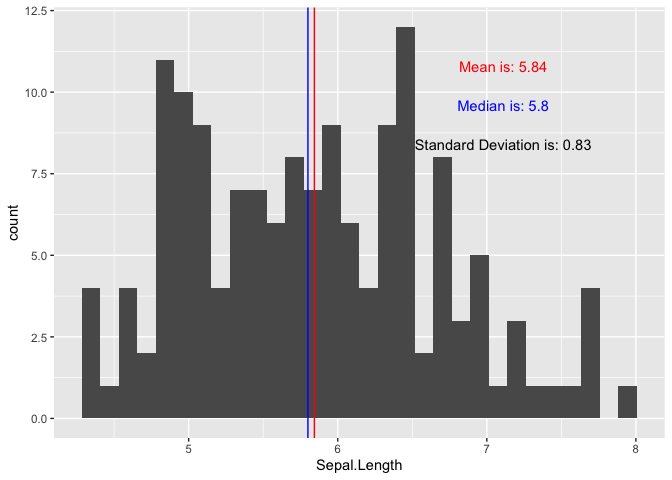
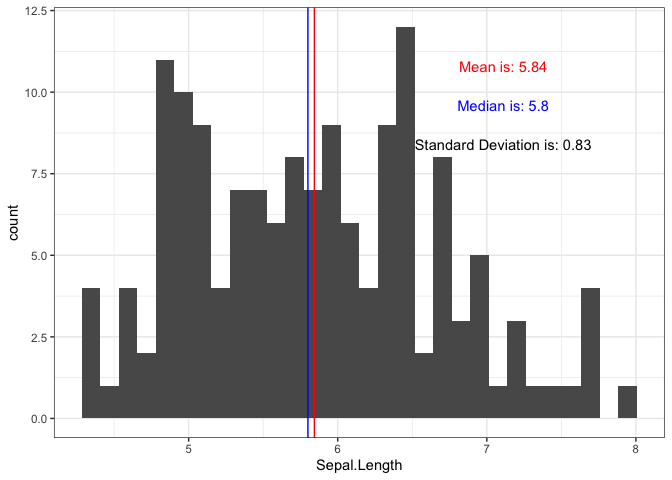
fixed typos in README and vignette, changed background theme on gghist, and addition of fourier function to vignette and readme examples

diff --git a/README.md b/README.md
@@ -5,7 +5,8 @@
 
 <!-- badges: start -->
 
-![R-CMD-check](https://github.com/UBC-MDS/ggexpress/workflows/R-CMD-check/badge.svg?branch=master)
+[![R build
+status](https://github.com/UBC-MDS/ggexpress/workflows/R-CMD-check/badge.svg)](https://github.com/UBC-MDS/ggexpress/actions)
 
 [![codecov](https://codecov.io/gh/UBC-MDS/ggexpress/branch/master/graph/badge.svg)](https://codecov.io/gh/UBC-MDS/ggexpress)
 <!-- badges: end -->
@@ -112,12 +113,12 @@ higher)](https://www.rdocumentation.org/packages/Hmisc/versions/4.3-1)
     [summary](https://www.rdocumentation.org/packages/base/versions/3.6.2/topics/summary)
     for R). `ggexpress` combines both analysis and visual representation
     of the data for complex graphics like Fourier transform and general
-    plotting taks (i.e. histogram).
+    plotting tasks (i.e. histogram).
 
 ## Code Examples
 
-This is a basic example of how to make an exploratory histogram that
-displays summary stastics about the variable.
+> This is a basic example of how to make an exploratory histogram that
+> displays summary statistics about the variable.
 
 ``` r
 library(ggexpress)
@@ -129,20 +130,22 @@ gghist(data = iris, variable = Sepal.Length)
 #> `stat_bin()` using `bins = 30`. Pick better value with `binwidth`.
 ```
 
-<img src="man/figures/README-example1-1.png" width="100%" />
+<img src="man/figures/README-example1-1.png" width="80%" height="80%" style="display: block; margin: auto;" />
 
-Creates a scatterplot and calculates correlation values for two numeric
-variables
+> Creates a scatterplot and calculates correlation values for two
+> numeric variables
 
 ``` r
+library(ggexpress)
 scatter_express(df = iris, xval = Sepal.Width, yval = Sepal.Length)
 ```
 
-<img src="man/figures/README-example2-1.png" width="100%" />
+<img src="man/figures/README-example2-1.png" width="80%" height="80%" style="display: block; margin: auto;" />
 
-Plots a time series and its decomposed components
+> Plots a time series and its decomposed components
 
 ``` r
+library(ggexpress)
 time <- c("1950 Q1", "1950 Q2", "1950 Q3", "1950 Q4", 
            "1951 Q1", "1951 Q2", "1951 Q3", "1951 Q4",
            "1952 Q1", "1952 Q2", "1952 Q3", "1952 Q4")
@@ -150,10 +153,24 @@ earnings <- c(0.71, 0.63, 0.82, 0.21,
               1.21, 1.03, 2.82, 0.51,
               0.79, 0.92, 1.06, 0.41)
  ts_data <- tibble::tibble(time, earnings)
- ts_plot(data=ts_data, col="earnings", frequency=4)
+ ts_plot(data = ts_data, col = "earnings", frequency = 4)
 #> Registered S3 method overwritten by 'quantmod':
 #>   method            from
 #>   as.zoo.data.frame zoo
 ```
 
-<img src="man/figures/README-ts_plot_example-1.png" width="100%" />
+<img src="man/figures/README-ts_plot_example-1.png" width="80%" height="80%" style="display: block; margin: auto;" />
+
+> This example displays a fourier transform given some simple input
+> data.
+
+``` r
+library(ggexpress)
+my_data = tibble::tibble(time_series =  c(0, 1, 2, 3), signal = c(2, 3, 4, 6))
+
+fourier_transform(data = my_data,
+                  time_col = "time_series",
+                  data_col = "signal")
+```
+
+<img src="man/figures/README-fourier_transform example-1.png" width="80%" height="80%" style="display: block; margin: auto;" />
